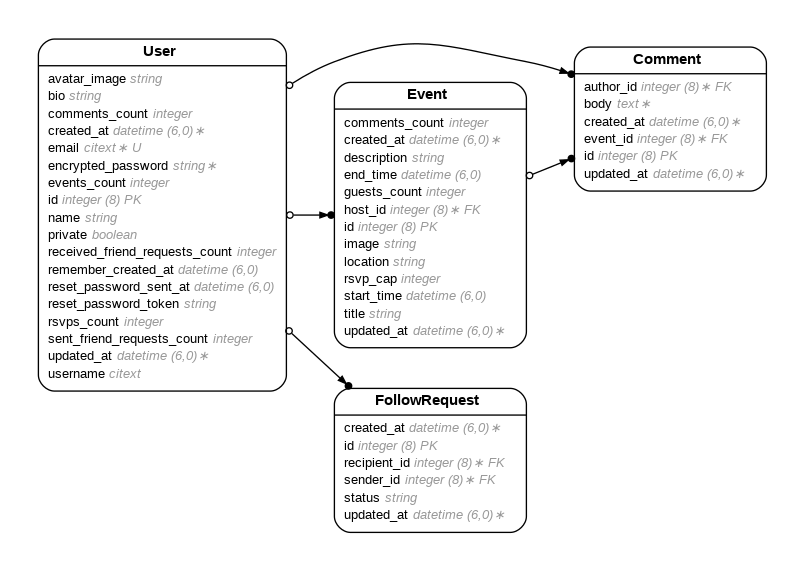
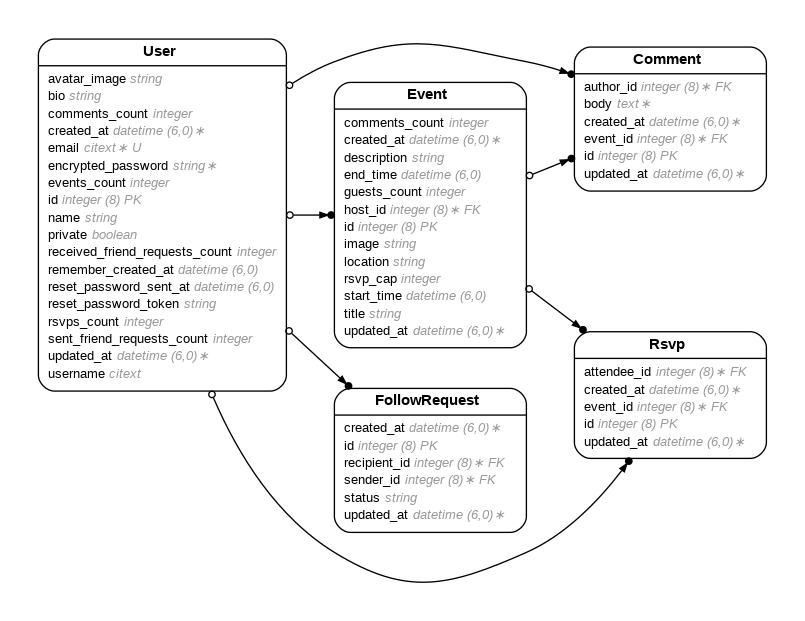
added RSVPs

diff --git a/app/controllers/rsvps_controller.rb b/app/controllers/rsvps_controller.rb
@@ -1,0 +1,70 @@
+class RsvpsController < ApplicationController
+  before_action :set_rsvp, only: %i[ show edit update destroy ]
+
+  # GET /rsvps or /rsvps.json
+  def index
+    @rsvps = Rsvp.all
+  end
+
+  # GET /rsvps/1 or /rsvps/1.json
+  def show
+  end
+
+  # GET /rsvps/new
+  def new
+    @rsvp = Rsvp.new
+  end
+
+  # GET /rsvps/1/edit
+  def edit
+  end
+
+  # POST /rsvps or /rsvps.json
+  def create
+    @rsvp = Rsvp.new(rsvp_params)
+
+    respond_to do |format|
+      if @rsvp.save
+        format.html { redirect_to @rsvp, notice: "Rsvp was successfully created." }
+        format.json { render :show, status: :created, location: @rsvp }
+      else
+        format.html { render :new, status: :unprocessable_entity }
+        format.json { render json: @rsvp.errors, status: :unprocessable_entity }
+      end
+    end
+  end
+
+  # PATCH/PUT /rsvps/1 or /rsvps/1.json
+  def update
+    respond_to do |format|
+      if @rsvp.update(rsvp_params)
+        format.html { redirect_to @rsvp, notice: "Rsvp was successfully updated." }
+        format.json { render :show, status: :ok, location: @rsvp }
+      else
+        format.html { render :edit, status: :unprocessable_entity }
+        format.json { render json: @rsvp.errors, status: :unprocessable_entity }
+      end
+    end
+  end
+
+  # DELETE /rsvps/1 or /rsvps/1.json
+  def destroy
+    @rsvp.destroy!
+
+    respond_to do |format|
+      format.html { redirect_to rsvps_path, status: :see_other, notice: "Rsvp was successfully destroyed." }
+      format.json { head :no_content }
+    end
+  end
+
+  private
+    # Use callbacks to share common setup or constraints between actions.
+    def set_rsvp
+      @rsvp = Rsvp.find(params.expect(:id))
+    end
+
+    # Only allow a list of trusted parameters through.
+    def rsvp_params
+      params.expect(rsvp: [ :attendee_id, :event_id ])
+    end
+end

diff --git a/db/schema.rb b/db/schema.rb
@@ -10,7 +10,7 @@
 #
 # It's strongly recommended that you check this file into your version control system.
 
-ActiveRecord::Schema[8.0].define(version: 2025_05_15_005631) do
+ActiveRecord::Schema[8.0].define(version: 2025_05_15_010029) do
   # These are extensions that must be enabled in order to support this database
   enable_extension "citext"
   enable_extension "pg_catalog.plpgsql"
@@ -48,6 +48,15 @@ ActiveRecord::Schema[8.0].define(version: 2025_05_15_005631) do
     t.datetime "updated_at", null: false
     t.index ["recipient_id"], name: "index_follow_requests_on_recipient_id"
     t.index ["sender_id"], name: "index_follow_requests_on_sender_id"
+  end
+
+  create_table "rsvps", force: :cascade do |t|
+    t.bigint "attendee_id", null: false
+    t.bigint "event_id", null: false
+    t.datetime "created_at", null: false
+    t.datetime "updated_at", null: false
+    t.index ["attendee_id"], name: "index_rsvps_on_attendee_id"
+    t.index ["event_id"], name: "index_rsvps_on_event_id"
   end
 
   create_table "solid_cable_messages", force: :cascade do |t|
@@ -220,6 +229,8 @@ ActiveRecord::Schema[8.0].define(version: 2025_05_15_005631) do
   add_foreign_key "events", "users", column: "host_id"
   add_foreign_key "follow_requests", "users", column: "recipient_id"
   add_foreign_key "follow_requests", "users", column: "sender_id"
+  add_foreign_key "rsvps", "events"
+  add_foreign_key "rsvps", "users", column: "attendee_id"
   add_foreign_key "solid_queue_blocked_executions", "solid_queue_jobs", column: "job_id", on_delete: :cascade
   add_foreign_key "solid_queue_claimed_executions", "solid_queue_jobs", column: "job_id", on_delete: :cascade
   add_foreign_key "solid_queue_failed_executions", "solid_queue_jobs", column: "job_id", on_delete: :cascade

diff --git a/app/models/rsvp.rb b/app/models/rsvp.rb
@@ -1,0 +1,24 @@
+# == Schema Information
+#
+# Table name: rsvps
+#
+#  id          :bigint           not null, primary key
+#  created_at  :datetime         not null
+#  updated_at  :datetime         not null
+#  attendee_id :bigint           not null
+#  event_id    :bigint           not null
+#
+# Indexes
+#
+#  index_rsvps_on_attendee_id  (attendee_id)
+#  index_rsvps_on_event_id     (event_id)
+#
+# Foreign Keys
+#
+#  fk_rails_...  (attendee_id => users.id)
+#  fk_rails_...  (event_id => events.id)
+#
+class Rsvp < ApplicationRecord
+  belongs_to :attendee, class_name: "User"
+  belongs_to :event
+end

diff --git a/db/migrate/20250515010029_create_rsvps.rb b/db/migrate/20250515010029_create_rsvps.rb
@@ -1,0 +1,10 @@
+class CreateRsvps < ActiveRecord::Migration[8.0]
+  def change
+    create_table :rsvps do |t|
+      t.references :attendee, null: false, foreign_key: { to_table: :users }
+      t.references :event, null: false, foreign_key: true
+
+      t.timestamps
+    end
+  end
+end

diff --git a/config/routes.rb b/config/routes.rb
@@ -1,4 +1,5 @@
 Rails.application.routes.draw do
+  resources :rsvps
   resources :follow_requests
   resources :comments
   resources :events
